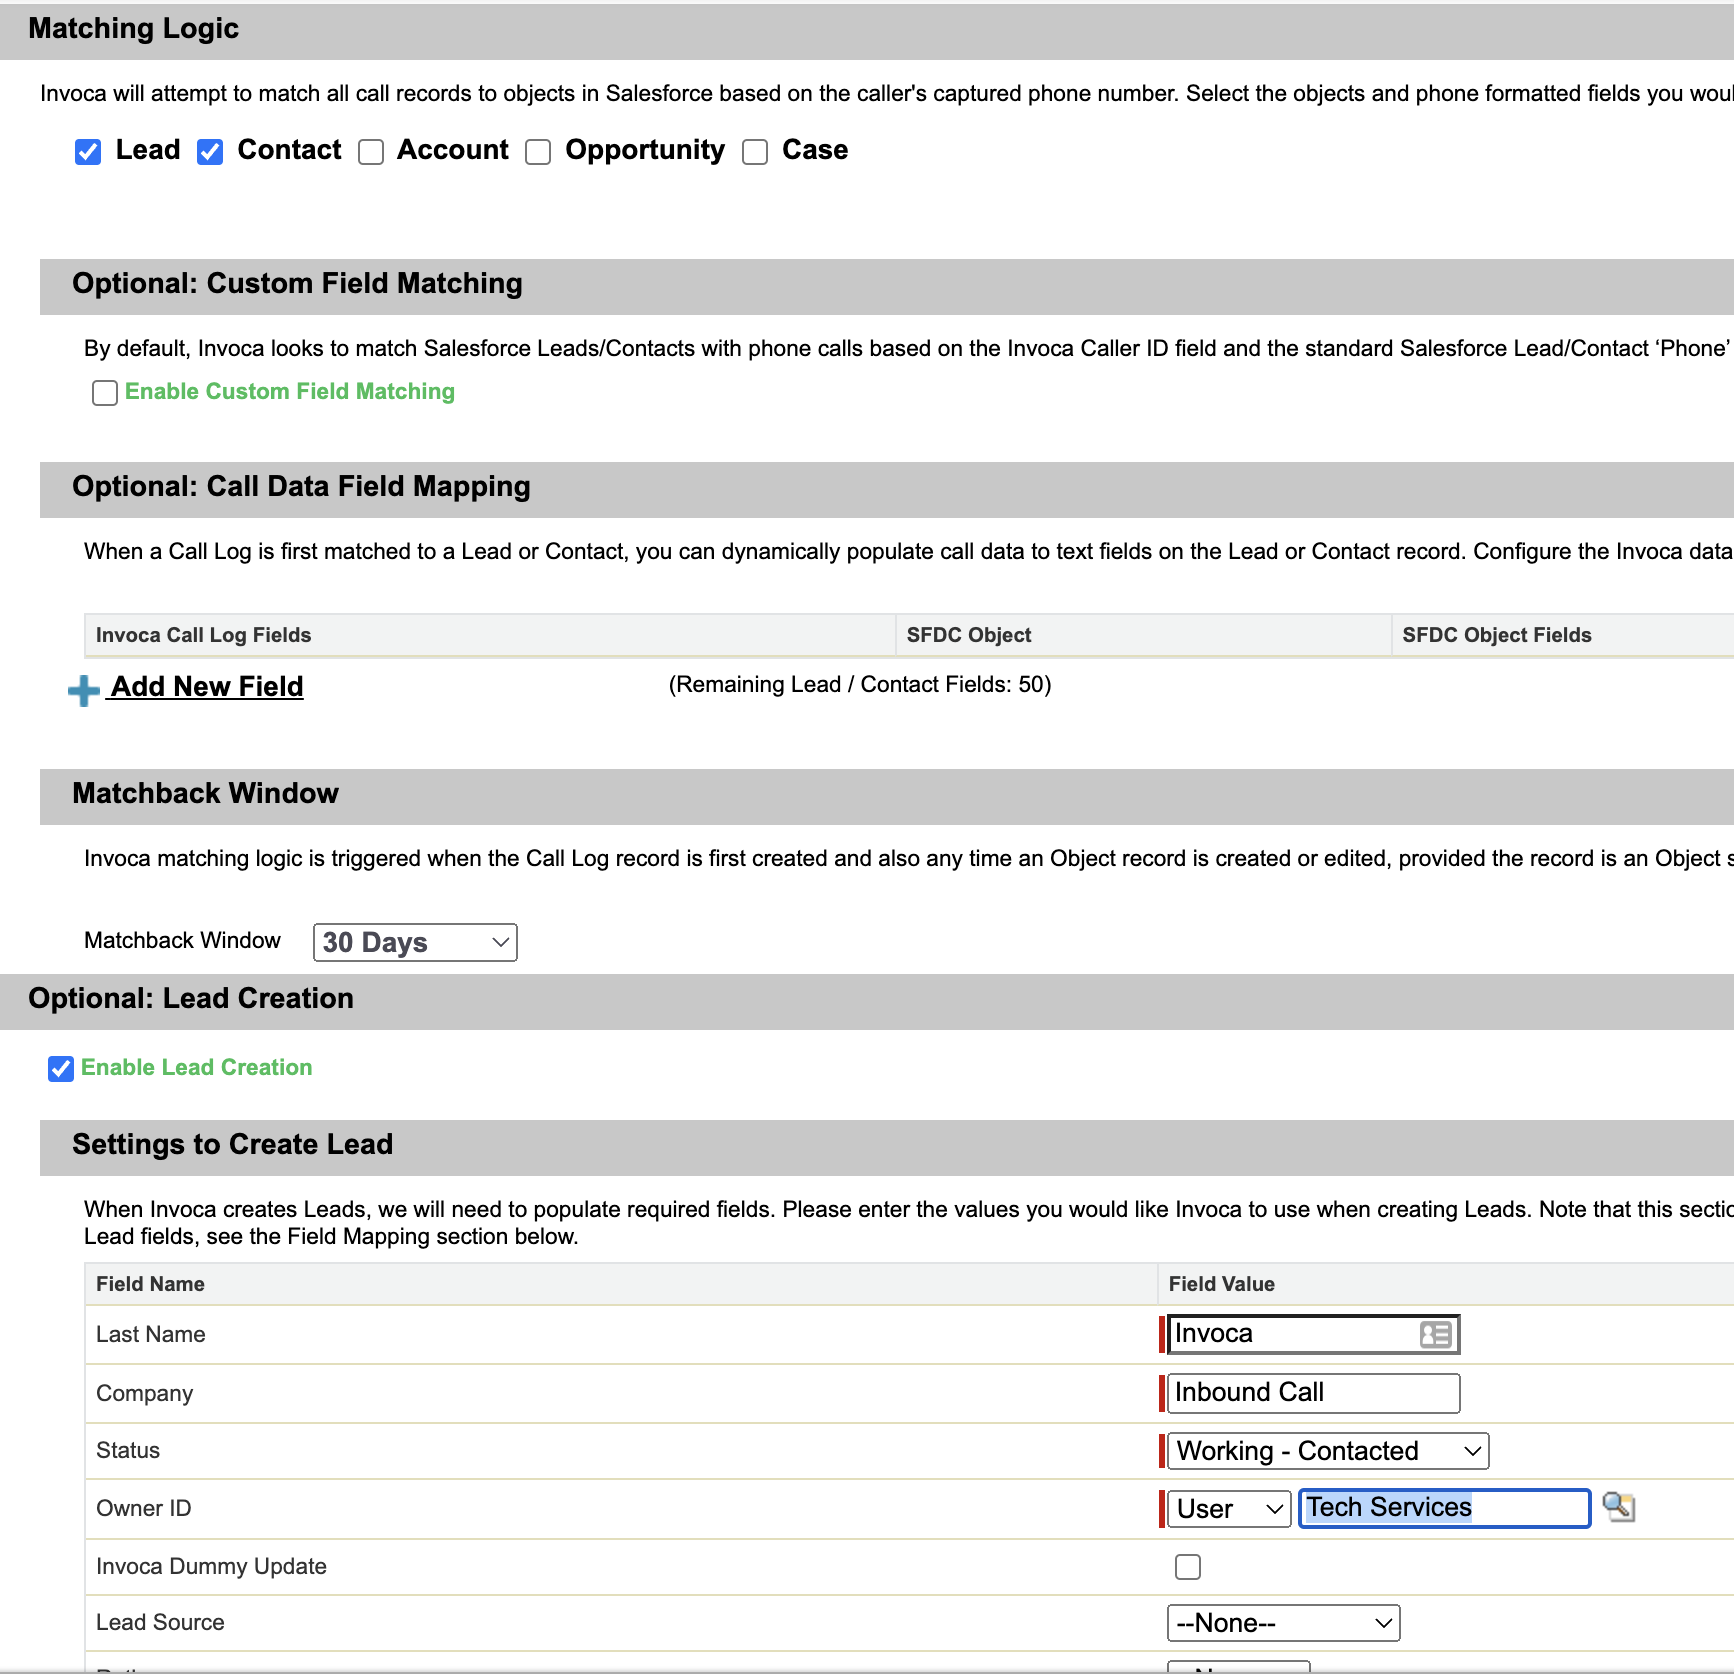
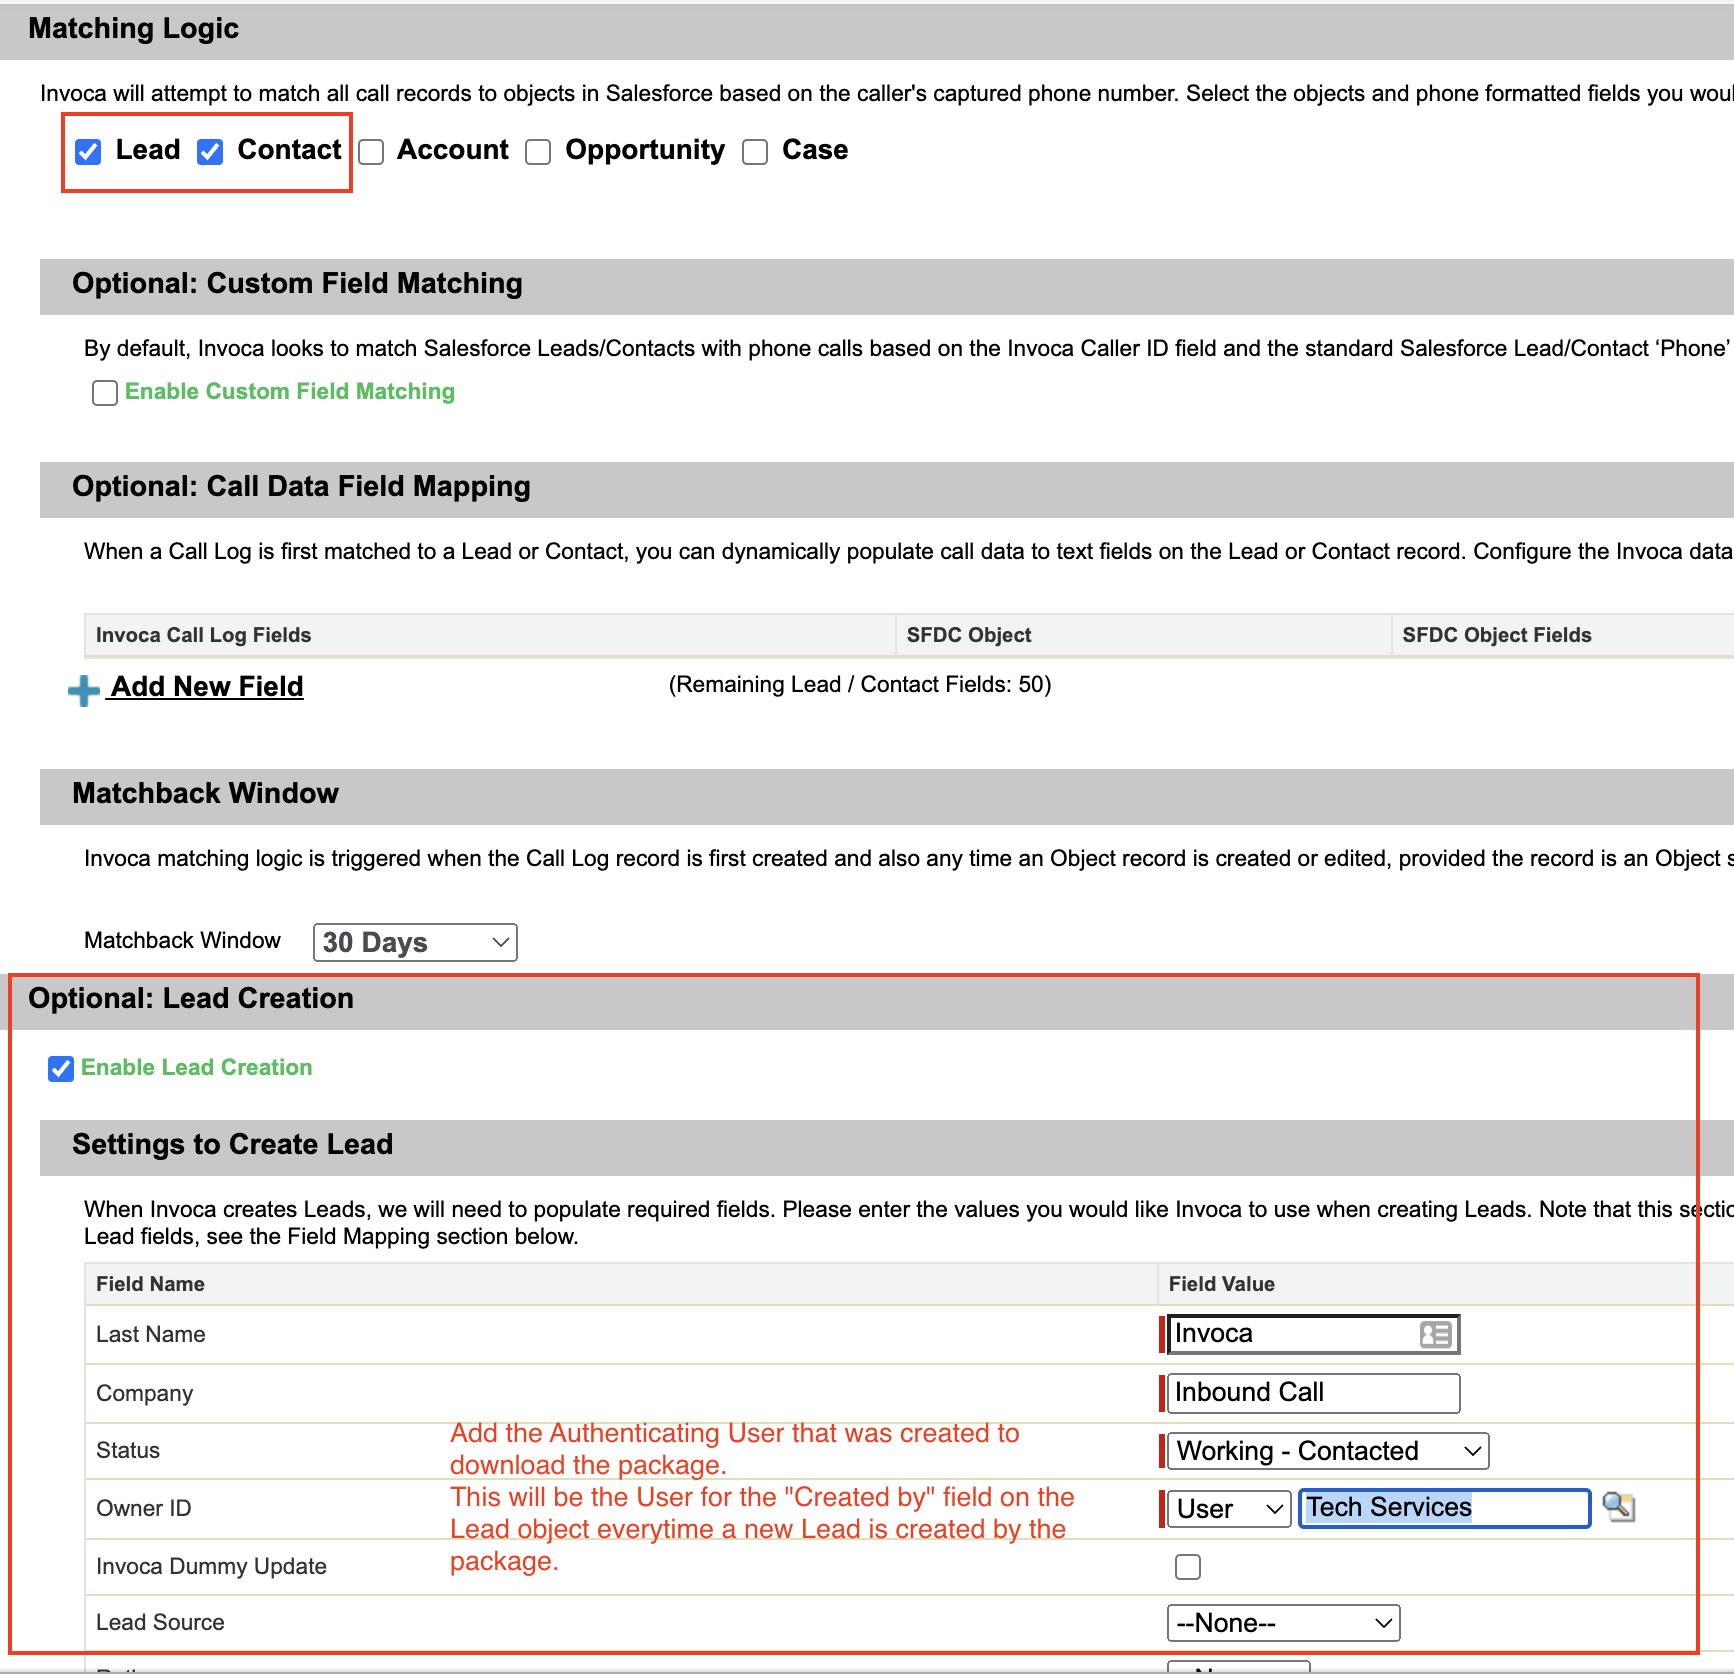
Updates content in the steps

Changed region(s): [[0.2491, 0.8387, 0.6228, 0.963], [0.0311, 0.0621, 0.0623, 0.1243], [0.0, 0.963, 0.0311, 0.994]]

diff --git a/app/assets/stylesheets/application.css b/app/assets/stylesheets/application.css
@@ -31,3 +31,7 @@ div.button-container {
 div.button button {
     font-size: 20px;
 }
+
+div.image {
+    padding-bottom: 15px;
+}

diff --git a/app/content_steps/getting-started.md b/app/content_steps/getting-started.md
@@ -1,5 +1,5 @@
 ## Welcome! 
-This is a tutorial to assist you in implementing the latest version of the Invoca Salesforce Sales Cloud Integration! To provide an overview, we will be undertaking six primary steps to enhance the Invoca/Salesforce integration.
+This is a tutorial to assist your Salesforce Admin to implement the latest version of the Invoca Salesforce Sales Cloud Integration! To provide an overview, we will be undertaking six primary steps to enhance the Invoca/Salesforce integration.
 
 1. **Before installing v5.5**, take a screenshot of your current "Invoca Admin" page in your Salesforce Production instance.
 2. Install the newest version of the package which can be located from [Invoca’s AppExchange listing](https://community.invoca.com/t5/salesforce-introduction/salesforce-sales-cloud-version-release-notes/ta-p/458#U458:~:text=newest%20version%20of%20the%20package%20can%20be%20installed%20from%20Invoca%E2%80%99s%20AppExchange%20listing).
@@ -8,4 +8,4 @@ This is a tutorial to assist you in implementing the latest version of the Invoc
 5. Conduct end-to-end testing
 6. In Salesforce, install package in Production and complete steps 1-5 again
 
-* Before you get started you will want to make sure your **Salesforce Admin** follows these steps and has access to the "Authenticating User" that originally installed the integrations. 
+* Before you get started you will want to make sure your **Salesforce Admin** has access to the "Authenticating User" that originally installed the integrations. 

diff --git a/app/content_steps/option-2.md b/app/content_steps/option-2.md
@@ -1,8 +1,10 @@
+### Step 3 - Configure Invoca Admin Settings in Salesforce: Option 2
+
 In the “Matching Logic” section, select the objects to match with Invoca Call Logs. 
 
 - We will search the records and compare all Phone type fields with the Caller ID from the Call Log. 
-- If multiple records of the same object match, the Call Log will be linked to the one that was most recently modified.
-- If we cannot match Opportunities using the fields that are of type ‘Phone’, we will try to match using the associated Account.
+- If multiple records of the same object exist, the Call Log will be linked to the one that was most recently modified.
+- If we cannot match Opportunities using the fields that are of type ‘Phone’, we will try to match using the associated Account/Lead/Contact.
 - If you do not want Invoca to match to any object records and just create the Invoca Call Log, simply deselect all the boxes. This can be a good option if your Salesforce Admin or developers want to build their own custom matching logic using Flow or Apex triggers.
 
-Option 2 is set to only match to existing leads, your backup screenshot should look similar to this option:
+**Option 2 is set to only match to existing leads, your backup screenshot should look similar to this option:**

diff --git a/app/content_steps/option-1.md b/app/content_steps/option-1.md
@@ -1,8 +1,10 @@
+### Step 3 - Configure Invoca Admin Settings in Salesforce: Option 1
+
 In the “Matching Logic” section, select the objects to match with Invoca Call Logs. 
 
 - We will search the records and compare all Phone type fields with the Caller ID from the Call Log. 
-- If multiple records of the same object match, the Call Log will be linked to the one that was most recently modified.
-- If we cannot match Opportunities using the fields that are of type ‘Phone’, we will try to match using the associated Account.
+- If multiple records of the same object exist, the Call Log will be linked to the one that was most recently modified.
+- If we cannot match Opportunities using the fields that are of type ‘Phone’, we will try to match using the associated Account/Lead/Contact.
 - If you do not want Invoca to match to any object records and just create the Invoca Call Log, simply deselect all the boxes. This can be a good option if your Salesforce Admin or developers want to build their own custom matching logic using Flow or Apex triggers.
 
-Option 1 is set to match or create a new lead, your backup screenshot should look similar to this option:
+**Option 1 is set to match or create a new lead, your backup screenshot should look similar to this option:**

diff --git a/app/content_steps/mapping.md b/app/content_steps/mapping.md
@@ -1,5 +1,7 @@
 If there was anyting selected in the 'Map Invoca Call Data to Leads & Contacts' section (based on your PDF or screenshot) make sure the same values are selected as the previous admin settings.
 
-It's encouraged to not map too many values in this section and only map data that you will need displayed to call agents and Salesforce reports. If there are data attributes that are blank or no longer being used we encourage you to not map these attributes in the Invoca Admin settings. Salesforce reports have the option to join objects so you can retrieve data Invoca Call Log data by joining your objects when buliding Salesforce reports.
+It's encouraged to not map too many values in this section (less than 10 or so), and only map data that you will need displayed to call agents and Salesforce reports.
+
+If there are data attributes that are blank or no longer being used we encourage you to not map these attributes in the Invoca Admin settings. Salesforce reports have the option to join objects so you can retrieve Invoca Call Log data by joining your objects when buliding Salesforce reports.
 
 **Please note, this package does not map data if the field data type is a picklist. This package can only map data if the Salesforce field is a text data type.**

diff --git a/app/content_steps/call-duration-filter.md b/app/content_steps/call-duration-filter.md
@@ -1,3 +1,7 @@
-Add the same time filter in the 'Call Duration Filter' (based on your PDF or screenshot).
+### Step 3 - Configure Invoca Admin Settings in Salesforce: Call Duration Filter
+
+If this setting was set up in your previous version you can add the same time filter in the 'Call Duration Filter' (based on your PDF or screenshot).
 
 In the Call Duration Filter drop-down menu, you can select a minimum duration that phone calls will need to reach to be reported into Salesforce. This setting only compatible with Option 2 (Assign to Matching Caller ID Only) and Option 4 (Do Not Match and Just Create the Invoca Call Log). 
+
+you can select a minimum duration that phone calls will need to reach to be reported into Salesforce. This setting only works if your Invoca connect app settings you chose in step 2.7 of this guide are configured to Only send call data to Salesforce upon call finish.

diff --git a/app/content_steps/test-call.md b/app/content_steps/test-call.md
@@ -1,1 +1,3 @@
-The following steps will walk your through how to test. You'll first need to make a test call using an Invoca number. We suggest using a [Direct static number](https://community.invoca.com/t5/skill-builder-videos/provisioning-a-direct-static-promo-number/ta-p/2338). Once the static number is created call the number so and Invoc Call Log is created in your sandbox instance. 
+The following steps will walk your through how to test. 
+
+You'll first need to **make a test call using an Invoca number**. We suggest using a [Direct static number](https://community.invoca.com/t5/skill-builder-videos/provisioning-a-direct-static-promo-number/ta-p/2338). Once the static number is created call the number so and Invoc Call Log is created in your sandbox instance. 

diff --git a/app/content_steps/config-options.md b/app/content_steps/config-options.md
@@ -1,3 +1,5 @@
+### Step 3 - Configure Invoca Admin Settings in Salesforce: Configuration Options
+
 Which matching option is selected in your Salesforce Production instance?
 
 - **Option 1** matching is set to **"Assign to Matching Caller ID, or create a new Lead"** which means that Invoca is going to first look for a Lead object to match to based on the caller ID in the phone field, and if a match cannot be found then the package will create a new Lead and match the Invoca Call log object to that newly created Lead.

diff --git a/app/content_steps/option-3.md b/app/content_steps/option-3.md
@@ -1,1 +1,3 @@
-Option 3 is set to create a new lead for every Invoca Call Log, your backup screenshot should look similar to this option:
+### Step 3 - Configure Invoca Admin Settings in Salesforce: Option 3
+
+**Option 3 is set to create a new lead for every Invoca Call Log, your backup screenshot should look similar to this option:**

diff --git a/app/content_steps/install-sandbox.md b/app/content_steps/install-sandbox.md
@@ -1,3 +1,5 @@
+### Step 2 - Install package in Sandbox
+
 It is a best practice to install and test managed packages in your sandbox, and most ideally a full copy sandbox of your production instance. 
 
 **Please note** that once you upgrade to version 5.5, it is not possible to revert back to a prior version! 

diff --git a/app/content_steps/option-4.md b/app/content_steps/option-4.md
@@ -1,1 +1,3 @@
-Option 4 is set to match or create a new lead, your backup screenshot should look similar to this option:
+### Step 3 - Configure Invoca Admin Settings in Salesforce: Option 4
+
+**Option 4 is set to match or create a new lead, your backup screenshot should look similar to this option:**

diff --git a/app/content_steps/save-current-admin-settings-as-backup.md b/app/content_steps/save-current-admin-settings-as-backup.md
@@ -1,3 +1,5 @@
+### Step 1 - Capture your current Salesforce Settings as a backup
+
 Before installing the latest version, please complete the following: 
 
 - Print (as PDF) or take a screenshot of your current "Invoca Admin" settings page in your Salesforce production Instance. 
